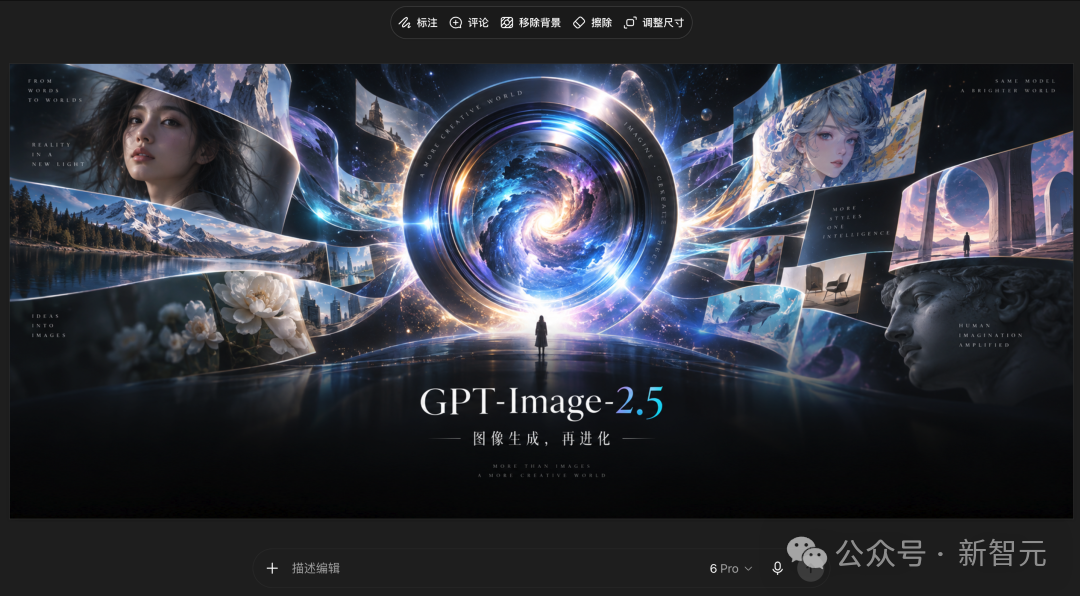
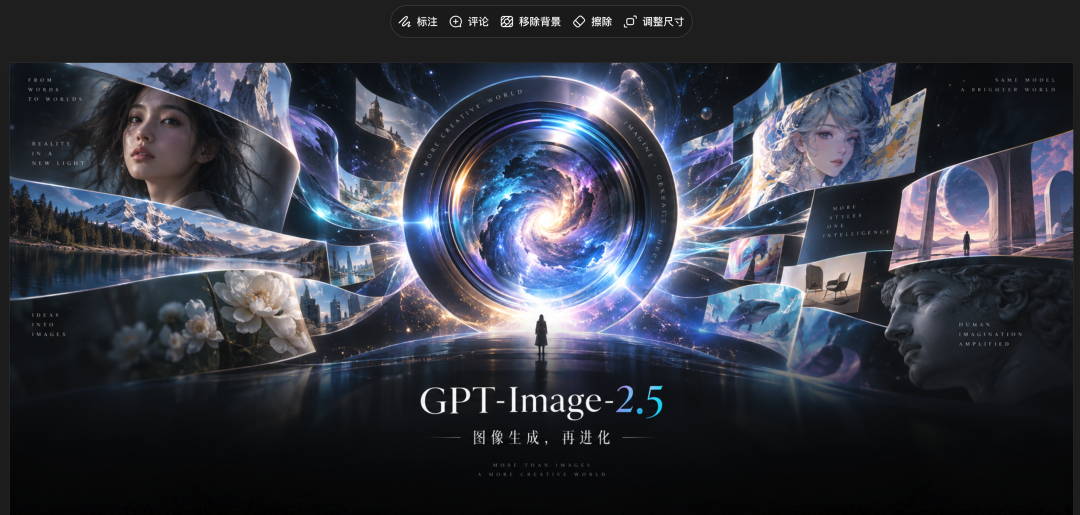
Replace Image 2.5 cover image

diff --git a/docs/public/sitemap.html b/docs/public/sitemap.html
@@ -10,7 +10,7 @@
 <body>
   <main>
     <h1>ChatGPT官网入口识别指南站点地图</h1>
-    <p>共 169 个 canonical 页面。正式 XML Sitemap：<a href="https://chatgpt-guanwang.com/sitemap.xml">https://chatgpt-guanwang.com/sitemap.xml</a></p>
+    <p>共 170 个 canonical 页面。正式 XML Sitemap：<a href="https://chatgpt-guanwang.com/sitemap.xml">https://chatgpt-guanwang.com/sitemap.xml</a></p>
     <ul>
       <li><a href="https://chatgpt-guanwang.com/domestic/chatgpt-china-use-official-cannot-open-web-third-party-20260714">https://chatgpt-guanwang.com/domestic/chatgpt-china-use-official-cannot-open-web-third-party-20260714</a></li>
       <li><a href="https://chatgpt-guanwang.com/domestic/chatgpt-china-user-guide-official-mirror-multimodel-20260803">https://chatgpt-guanwang.com/domestic/chatgpt-china-user-guide-official-mirror-multimodel-20260803</a></li>
